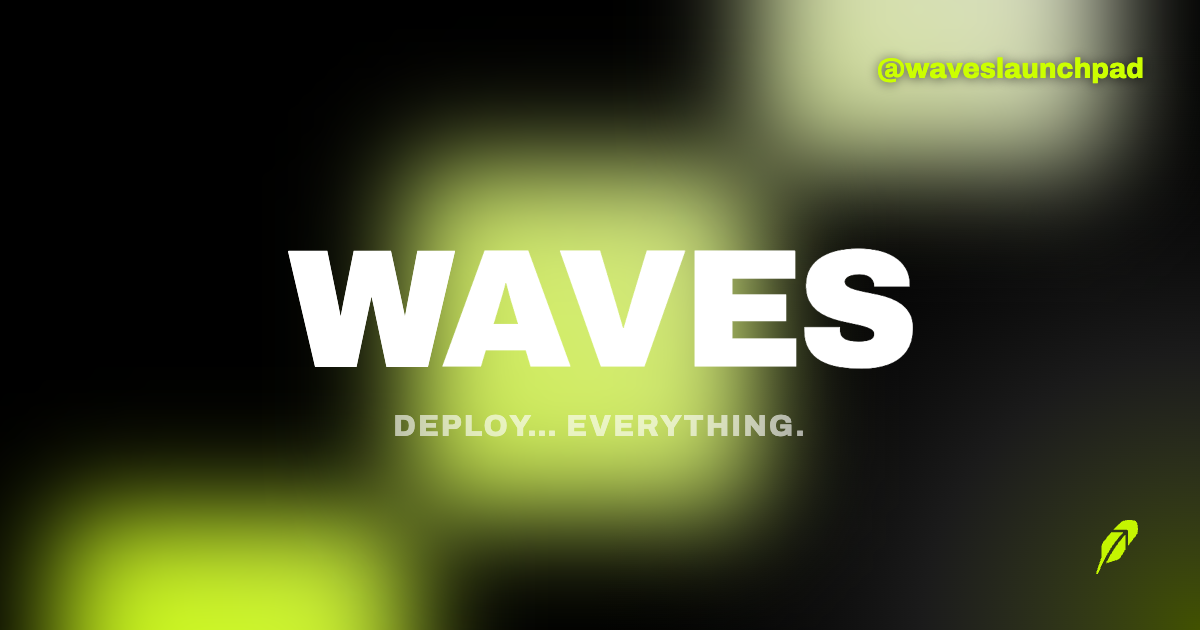
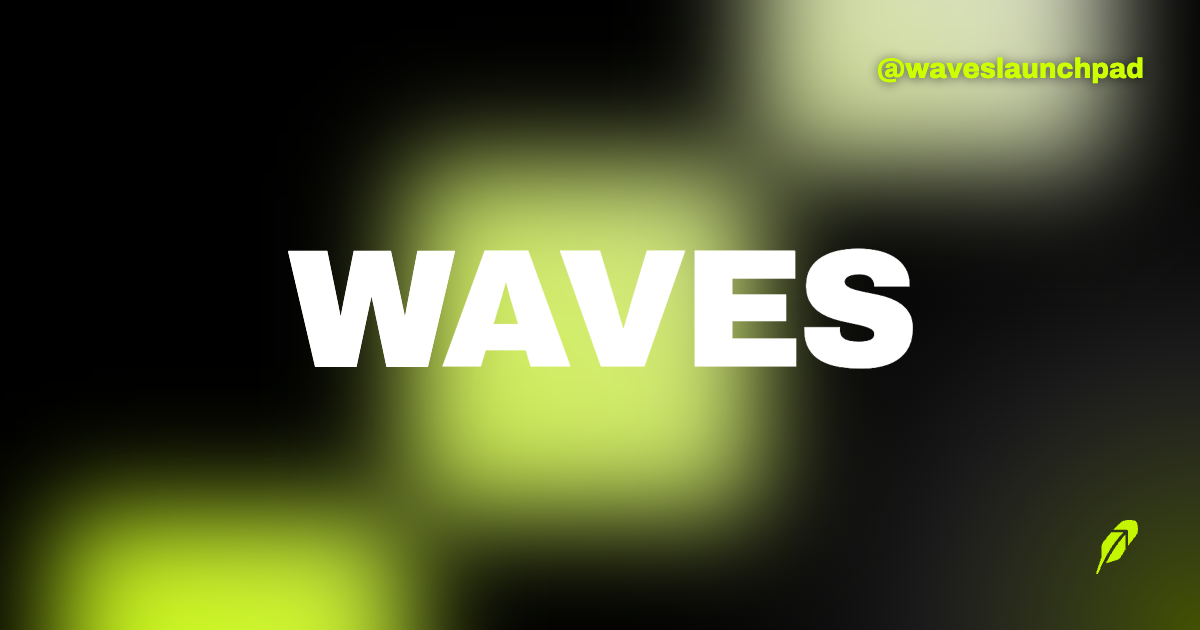
Website share cards: drop the 'DEPLOY… EVERYTHING.' tagline
Just WAVES centered on the card now, matching the pared-back homepage hero.
Regenerated og.png and og-rh.png.

Claude-Session: https://claude.ai/code/session_011gHwqYPJSgpRJxjd4Ry3q9

Changed region(s): [[0.3083, 0.6333, 0.6783, 0.6937]]

diff --git a/app/public/og-lab.html b/app/public/og-lab.html
@@ -76,11 +76,6 @@ async function draw() {
   g.letterSpacing = "-6px";
   g.fillText("WAVES", 600, 315);
 
-  g.font = "600 30px Archivo";
-  g.letterSpacing = "2px";
-  g.fillStyle = "rgba(255,255,255,.62)";
-  g.fillText("DEPLOY… EVERYTHING.", 600, 427);
-
   // @waveslaunchpad, top-right, with a soft dark shadow for legibility over the
   // bright leak — the same handle the launch share cards carry
   g.save();
